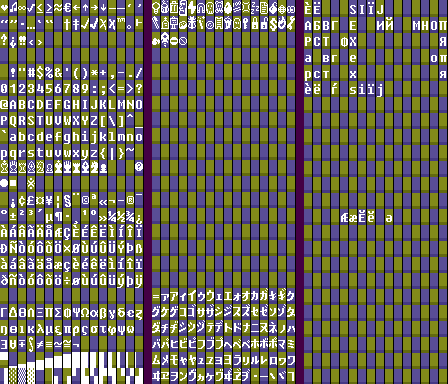
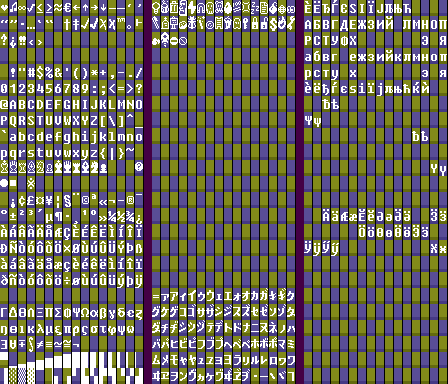
Fixes and additional characters from 1x
git-svn-id: file:///home/runner/work/tom7misc-sync-action/tom7misc-sync-action/upstream/trunk@5922 c7e11af0-4c7a-11f1-9edd-117cb6f09d55

diff --git a/bit7/font-image.cc b/bit7/font-image.cc
@@ -35,6 +35,10 @@ const char *Config::PageString(Page p) {
   }
 }
 
+inline static bool PageUsesEmptyGlyphs(Page p) {
+  return p == Page::BIT7_CLASSIC;
+}
+
 // Tips:
 //  - To move glyphs between pages, first duplicate them, then
 //    normalize, then set the sources to -1, then normalize again.
@@ -749,7 +753,10 @@ REUSE_FOR = {
   {0x00CB, 0x0401}, // Ë -> cyrillic
   {0x00E8, 0x0450}, // è -> cyrillic
   {0x00EB, 0x0451}, // ë -> cyrillic
-
+  {0x00C4, 0x04D2}, // Ä -> cyrillic
+  {0x00E4, 0x04D3}, // ä -> cyrillic
+  {0x00D6, 0x04E6}, // Ö -> cyrillic
+  {0x00F6, 0x04E7}, // ö -> cyrillic
 
   // ascii -> greek
   {'J', 0x037F},
@@ -771,6 +778,12 @@ REUSE_FOR = {
   {'o', 0x03BF},
   {'u', 0x03C5},
   {'x', 0x03C7},
+
+  // Coptic homoglyphs
+  {'C', 0x2CA4},
+  {'c', 0x2CA5},
+  {'O', 0x2C9E},
+  {'o', 0x2C9F},
 
   // Full-width comma
   {',', 0xFF0C},
@@ -806,6 +819,10 @@ REUSE_FOR = {
   {0x25CF, 0x23FA},
   // Same for square
   {0x25A0, 0x23F9},
+
+  // Various for IPA (Latin Extended B)
+  {0x03A3, 0x01A9}, // Greek Σ -> esh
+  {'!', 0x01C3},
 };
 
 Config Config::ParseConfig(const string &cfgfile) {
@@ -997,9 +1014,18 @@ void FontImage::AddPage(const ImageRGBA &img, Page p) {
       }
 
     } else {
+      // We use empty glyphs on the classic codepage, since it is sparsely
+      // mapped, and this is where the space character lives. Otherwise,
+      // we treat this as a missing glyph. Perhaps we should give some way
+      // (like making it all black) to indicate a deliberate empty glyph,
+      // though.
+      bool write_empty_glyph =
+        PageUsesEmptyGlyphs(p) &&
+        !unicode_to_glyph.contains(codepoint);
+
       // A codepoint can appear multiple times in different pages. We take
       // the last one, but don't overwrite with an empty glyph.
-      if (!is_empty || !unicode_to_glyph.contains(codepoint)) {
+      if (!is_empty || write_empty_glyph) {
         unicode_to_glyph[codepoint] = gidx;
       }
     }

diff --git a/bit7/normalize.cc b/bit7/normalize.cc
@@ -7,6 +7,7 @@
 #include "base/logging.h"
 #include "font-image.h"
 #include "util.h"
+// ѢALL ѣall
 
 using namespace std;
 
